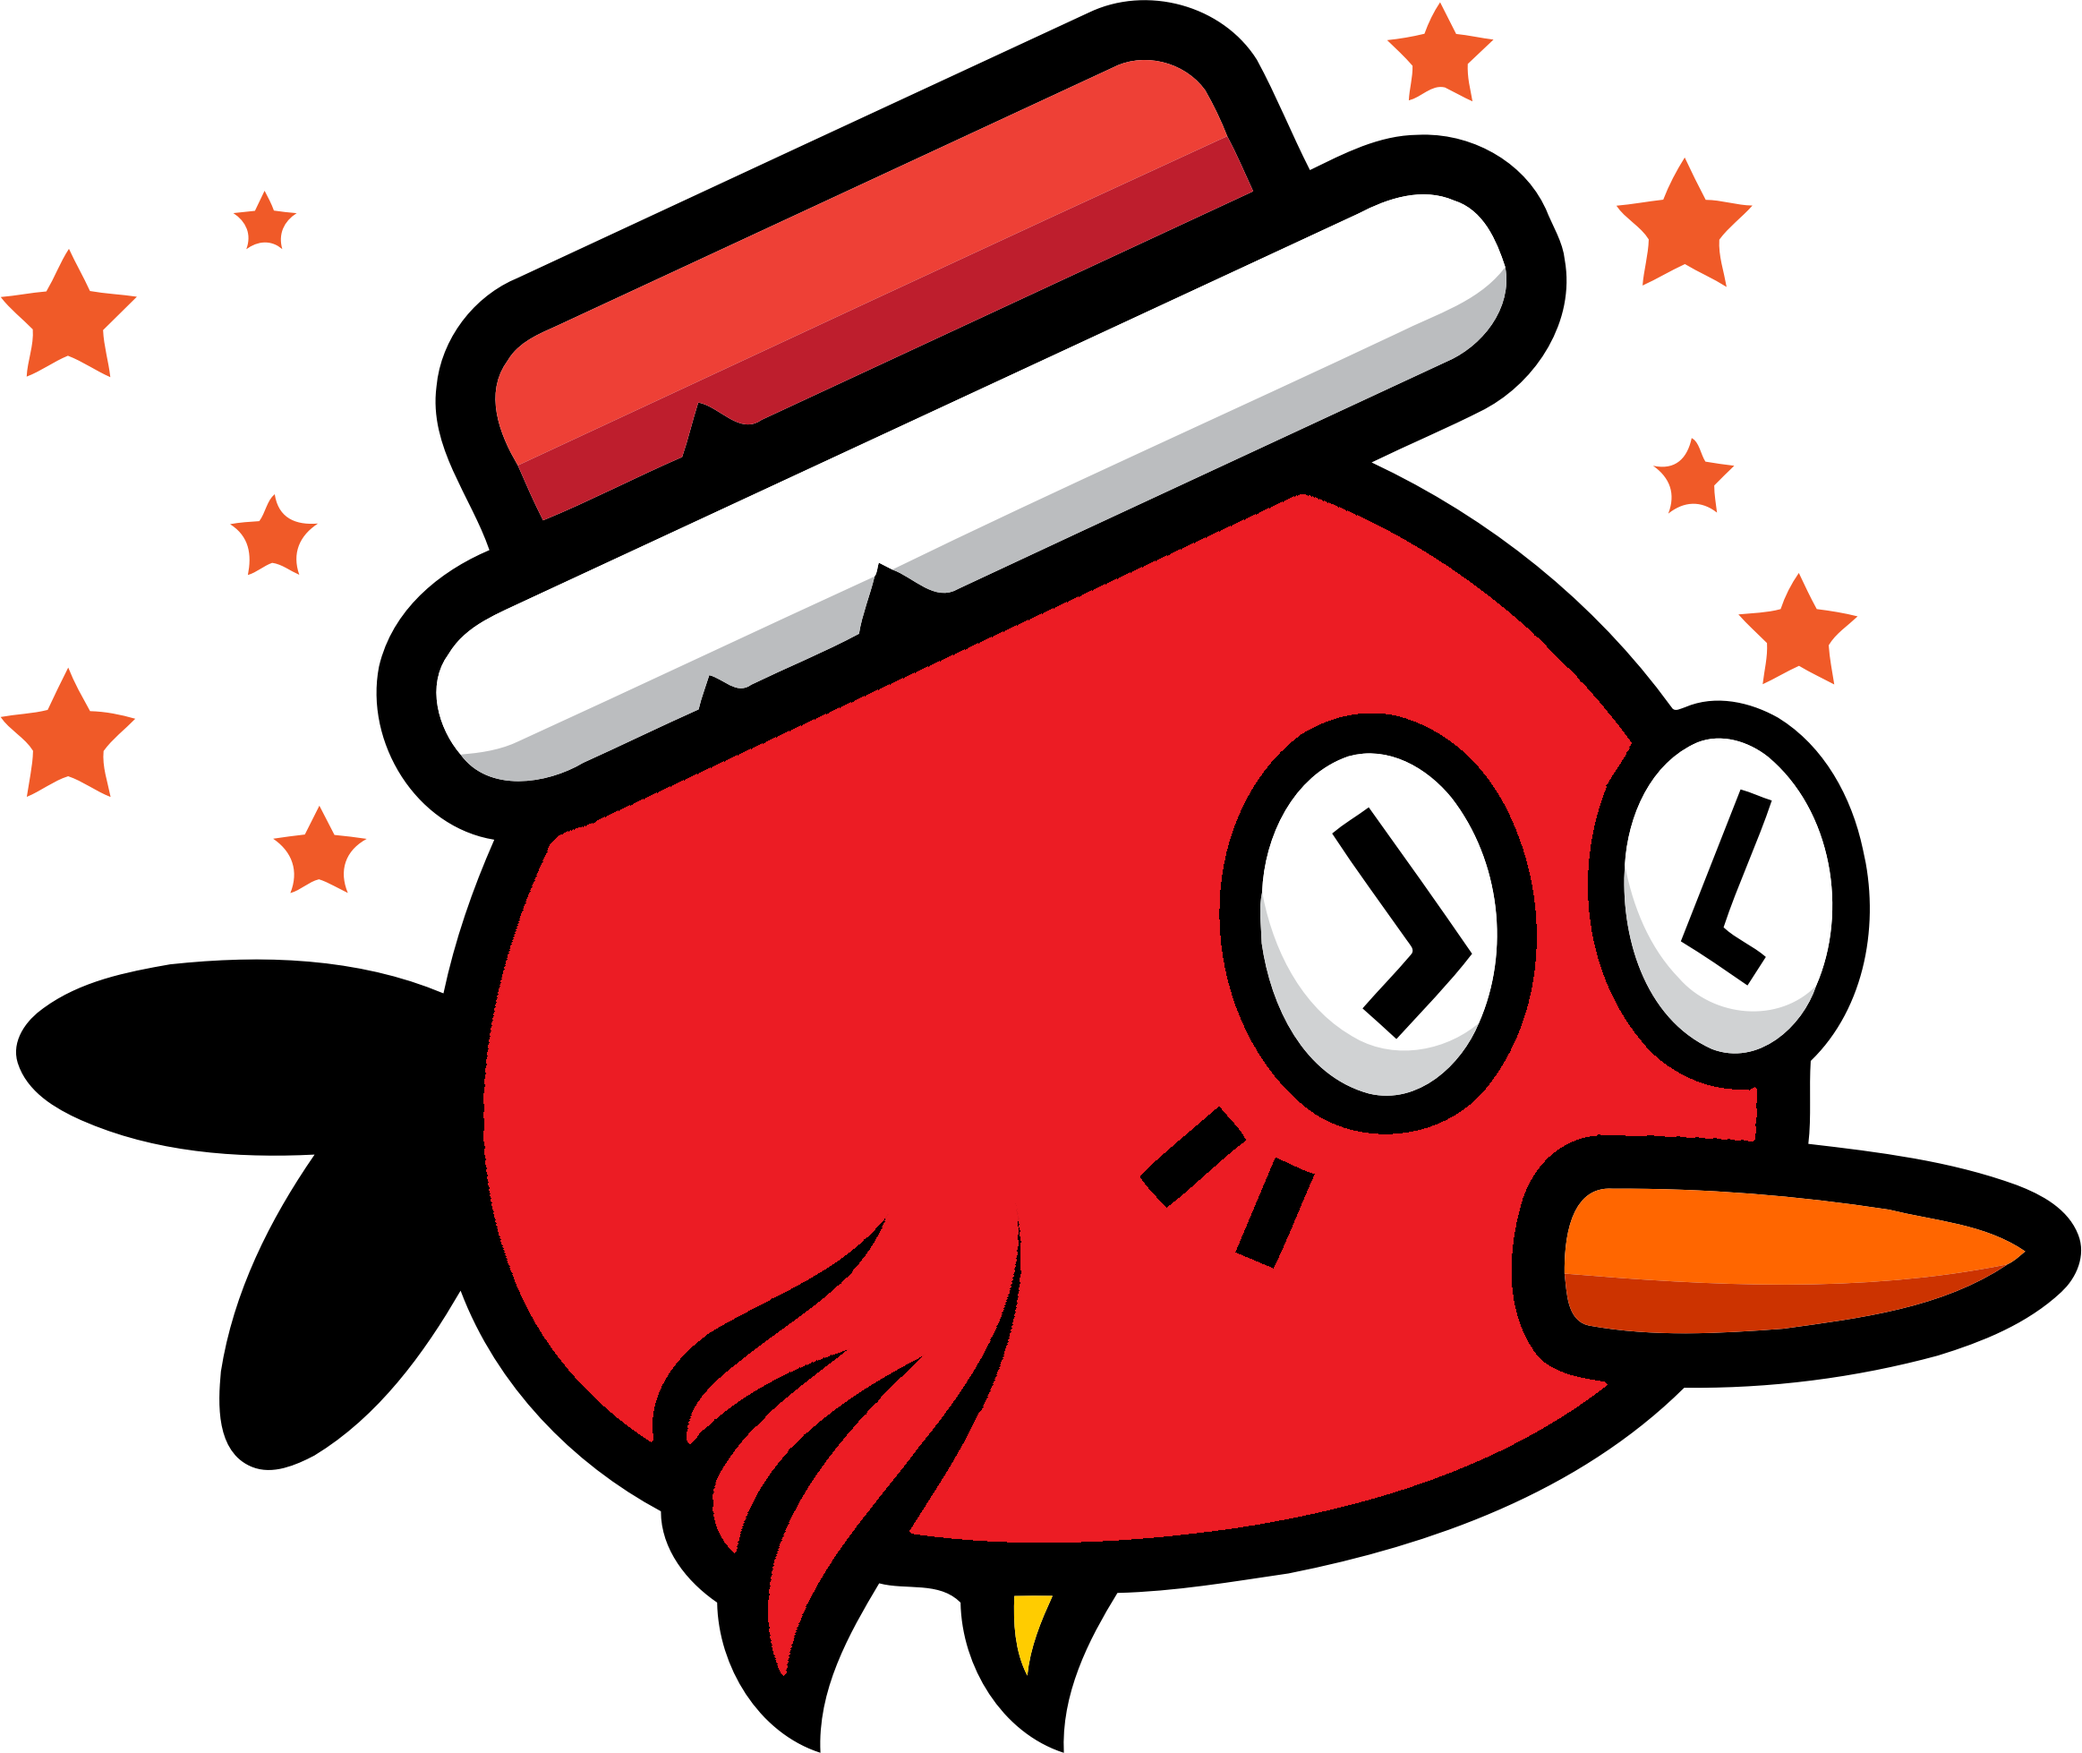
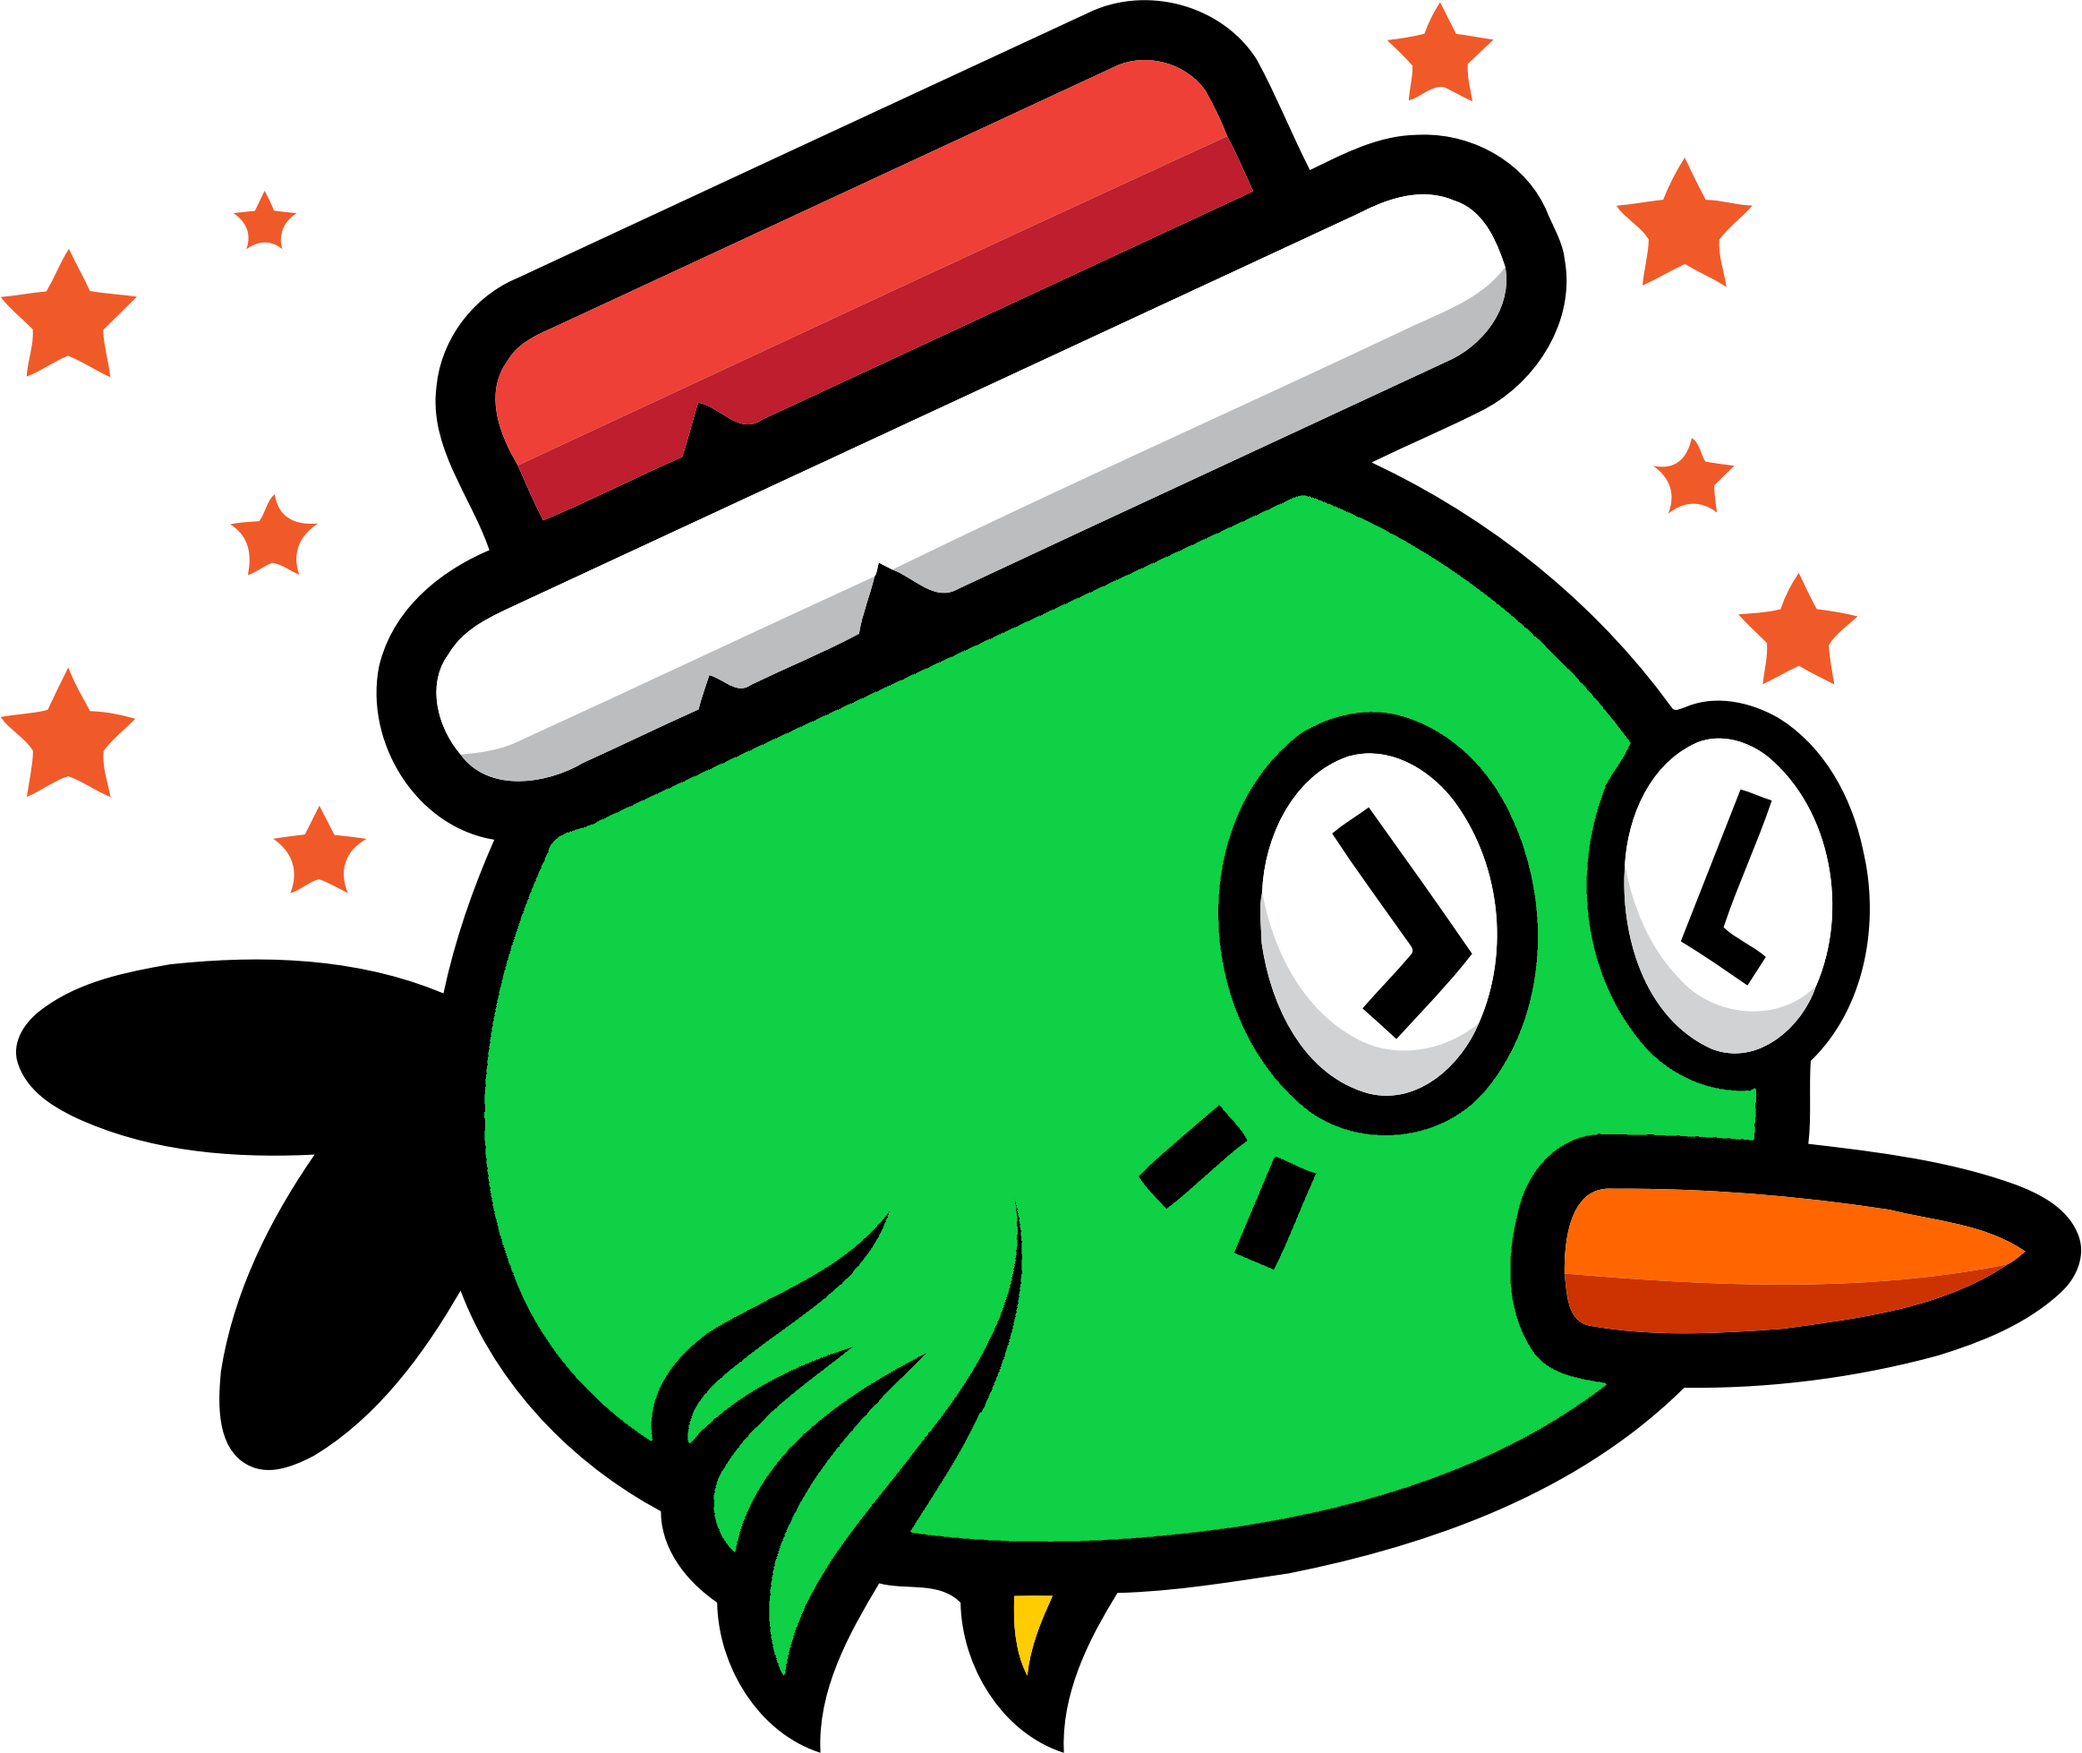
add High Score, Change Player and Extra Cloud

Changed region(s): [[0.2167, 0.2804, 0.8667, 0.9658]]

diff --git a/js/main.js b/js/main.js
@@ -15,8 +15,15 @@ let player = {
     gravity: 3,
     fly: 60,
     wallGap: 200,
-    score: 0
+    score: 0,
+    high_Score: 0,
+    change: false,
 }
+
+players.addEventListener('click', function() {
+    player.change = true
+    players.innerHTML = 'Player 2'
+})
 
 play.addEventListener("click", startGame)
 
@@ -38,6 +45,10 @@ function startGame() {
     bird.classList.add('bird')
     gameArea.appendChild(bird)
     player.y = bird.offsetTop
+
+    if(player.change) {
+        bird.style.backgroundImage = 'url(./img/02.png)'
+    }
 
 
 
@@ -86,9 +97,11 @@ function createCloud() {
 
         cloud.x = random_Num(200, 1000) * -1
         cloud.y = random_Num(20, 150)
+        cloud.color = random_Num(1, 5)
 
         cloud.style.top = cloud.y + 'px'
         cloud.style.right = cloud.x + 'px'
+        cloud.style.backgroundImage = `url(./img/cloud_0${cloud.color}.png)`
 
         gameArea.appendChild(cloud)
     }
@@ -213,6 +226,12 @@ function hitUpWall(bird, upWall) {
 
 }
 
+highScore.addEventListener('click', function() {
+
+    let high_Score = localStorage.getItem('High Score')
+    scoreBord.innerHTML = `High Score: ${high_Score}` 
+})
+
 function gamePlay() {
 
     let bird = document.querySelector('.bird')
@@ -222,6 +241,13 @@ function gamePlay() {
         gravity()
         moveWall(bird)
         moveCloud()
+
+        scoreBord.innerHTML = `Score: ${player.score}` 
+        if(player.score > player.high_Score) {
+
+            player.high_Score = player.score  
+            localStorage.setItem('High Score', player.high_Score.toString())
+        }  
 
         requestAnimationFrame(gamePlay)
     }
@@ -240,6 +266,8 @@ function gameOver() {
     gameMenu.classList.remove('hide')
     gameArea.classList.add('hide')
     player.score = 0
+    players.innerHTML = 'Player 1'
+    player.change = false
     }, 3000)
     
 }

diff --git a/style.css b/style.css
@@ -91,7 +91,7 @@ body{
     height: 60px;
     z-index: 2;
     transition: transform 1s;
-    background-image: url(./img/02.png);
+    background-image: url(./img/01.png);
     background-repeat: no-repeat;
     background-size: 100% 100%;
 }
@@ -108,7 +108,7 @@ body{
     z-index: 1;
     width: 300px;
     height: 220px;
-    background-image: url(./img/cloud\ 01.png);
+    /* background-image: url(./img/cloud\ 01.png); */
     background-repeat: no-repeat;
     background-size: 100% 100%;
     position: absolute;

diff --git a/index.html b/index.html
@@ -22,7 +22,7 @@
 
         <div class="gameMenu">
             <div class="button" id="play"><p>Play</p></div>
-            <div class="button" id="player"><p>Player</p></div>
+            <div class="button" id="player"><p>Player 1</p></div>
             <div class="button" id="highScore"><p>High Score</p></div>
         </div>
 
